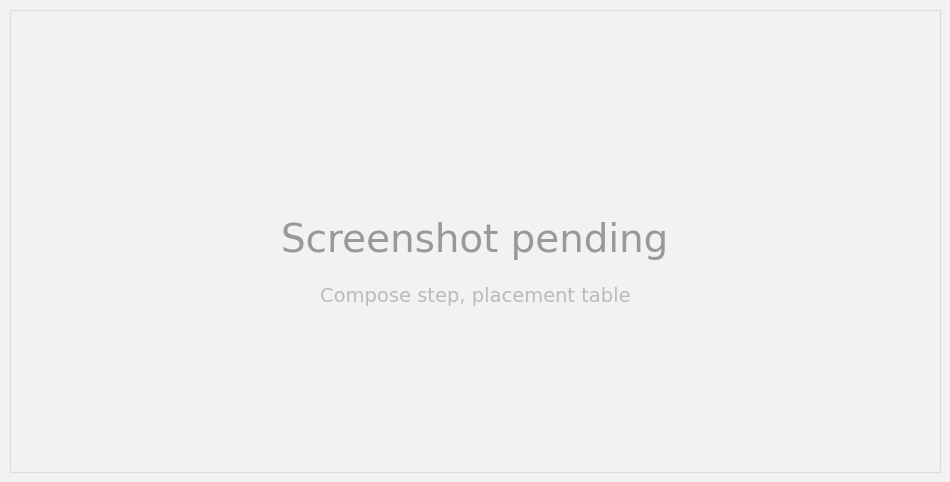
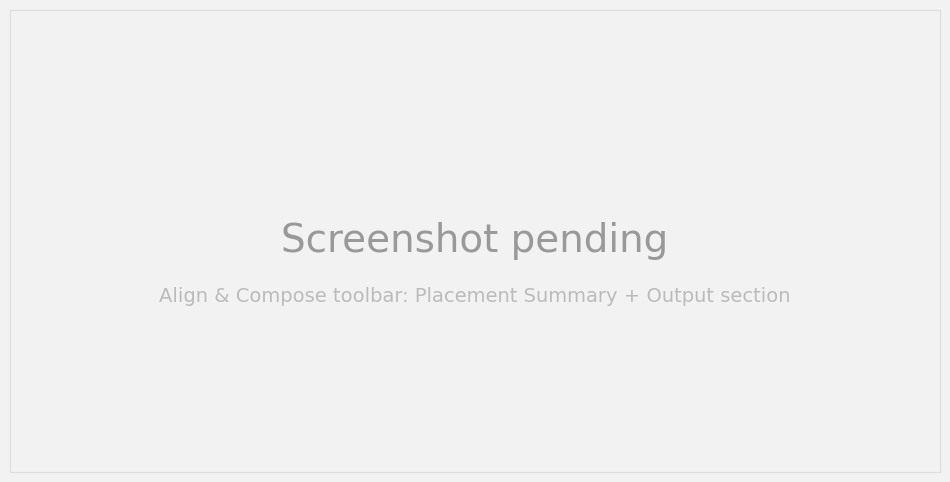
stitching: reflect the 2-step module (Select Stacks -> Align & Compose)
Guide restructured (compose is the step-2 Output section, recipe shows
compose-only); synced upstream article fixes (29f6937); placeholder
screenshot subtitle updated to the new capture target.

Claude-Session: https://claude.ai/code/session_016hoSi4rYmGk3nFbiKHToRR

Changed region(s): [[0.1526, 0.5913, 0.8242, 0.6535]]

diff --git a/src/workspace/guides/stack-stitching.md b/src/workspace/guides/stack-stitching.md
@@ -28,19 +28,21 @@ Whether a junction is a z-continuation or a side-by-side mosaic is **inferred** 
 
 ## Quick Start
 
+The module has two steps: **Select Stacks**, then **Align & Compose**.
+
 ### New Stitch
 
 1. **Launch module** — Click "Stack Stitching" from the workspace hub
 2. **Select stacks** — Add two or more stacks; order matters (top = reference)
-3. **Align each junction** — Pick the matching slice pair, click **Auto-align**, verify with the flicker toggle
-4. **Compose** — Review the placement table, set options, compose the volume
+3. **Align each junction** — In Align & Compose, pick the matching slice pair, click **Auto-align**, verify with the flicker toggle
+4. **Compose** — In the same step, review the placement summary in the toolbar, set the output options, and press **Compose**
 5. The result is a stitched TIFF **plus a recipe** for reuse
 
 ### Apply a Saved Recipe
 
 1. Choose **Apply saved recipe** in Step 1
 2. Pick a recipe from an earlier stitch and swap its slots for the volumes to compose now
-3. Go straight to **Compose** — no re-alignment needed
+3. Continue with **Next: Compose** — alignment is skipped, and the Align & Compose step shows composing only
 
 ---
 
@@ -64,7 +66,9 @@ A recipe holds the **placements** from an earlier stitch, not its pixels. Swap e
 
 ---
 
-### Step 2: Align
+### Step 2: Align & Compose
+
+Everything after stack selection happens in one step: aligning each junction, then composing the volume from the toolbar's Output section. (With a saved recipe, the alignment part is hidden and the step shows composing only.)
 
 For each junction, three decisions: the slice pair, the in-plane transform, and what happens to duplicated sections.
 
@@ -118,13 +122,13 @@ The setting only affects continuation junctions; for side-by-side mosaics there 
 
 ---
 
-### Step 3: Compose
+#### Composing the Volume
 
-<!-- TODO(screenshot): NEW capture needed — Compose step with placement table -->
-![Compose step placement table](/guides/stitching-compose.png)
-*The placement table with per-junction relationship notes before composing*
+<!-- TODO(screenshot): NEW capture needed — step 2 toolbar with Placement Summary + Output section -->
+![Placement summary and output options](/guides/stitching-compose.png)
+*The placement summary and Output section in the Align & Compose toolbar*
 
-The placement table lists every stack with its z offset, dx, dy, rotation, and kept slice range, plus a per-junction note: *"continues in z"*, *"continues in z, merged"*, or *"side by side"*. Seam handling is automatic: images get feathered seams; label maps use nearest-neighbor with hard seams by design.
+When the junctions are aligned (or the recipe slots filled), compose from the toolbar: the **Placement Summary** lists every stack with its z offset, dx, dy, rotation, and kept slice range, plus a per-junction note: *"continues in z"*, *"continues in z, merged"*, or *"side by side"*. Seam handling is automatic: images get feathered seams; label maps use nearest-neighbor with hard seams by design.
 
 **Options:**
 

diff --git a/docs/manual/modules/stitching/_module.md b/docs/manual/modules/stitching/_module.md
@@ -48,8 +48,6 @@ Each stack after the first is placed by a declared slice pair, "these two slices
 
 1. Select Stacks: start a new stitch, or apply a saved recipe
 
-2. Align: for each junction, pick the matching slice pair and align the overlay
-
-3. Compose: review the placement table and compose the output volume
+2. Align & Compose: for each junction, pick the matching slice pair and align the overlay; then review the placement summary, set the output options, and compose the volume. When applying a saved recipe, the alignment part is skipped and the step shows composing only
 
 The result is a stitched TIFF plus a recipe. Duplicated z sections are trimmed by default (one stack's slices are dropped); a junction set to merge keeps both and averages them (images only), recorded as `z_merge` in the recipe.

diff --git a/docs/manual/modules/stitching/step3-compose.md b/docs/manual/modules/stitching/step3-compose.md
@@ -20,7 +20,7 @@ seeAlsoTags:
 
 # Composing the Volume
 
-The Compose step turns the placements into a single output volume. Review the placement table, set a few options, and compose; the stitch is streamed slice by slice and the recipe is saved alongside the result.
+Composing turns the placements into a single output volume. It lives in the Align & Compose step: review the placement summary in the toolbar, set the output options, and press Compose; the stitch is streamed slice by slice and the recipe is saved alongside the result.
 
 ## Placement Summary
 

diff --git a/docs/manual/modules/stitching/step2-dominance.md b/docs/manual/modules/stitching/step2-dominance.md
@@ -44,4 +44,4 @@ When two stacks were imaged across the same physical sections, those z positions
 
 - For side-by-side mosaics (small footprint overlap) there are no duplicated z positions, so the setting is ignored and all slices are kept
 
-- The compose step reports how many duplicated sections were actually averaged
+- Composing reports how many duplicated sections were actually averaged
